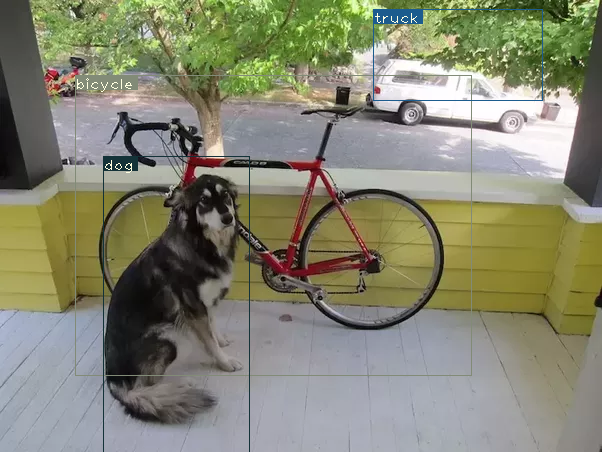
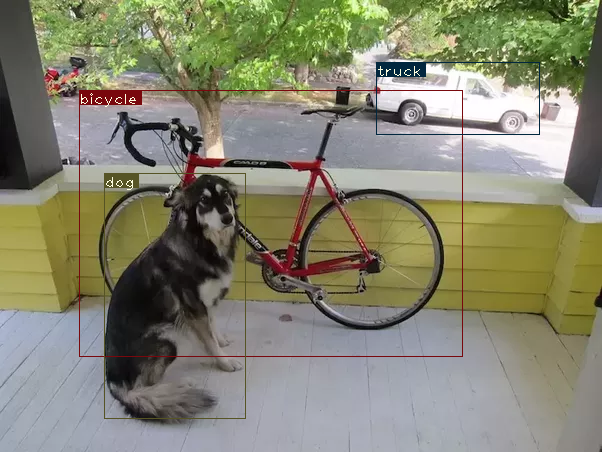
initial network

diff --git a/darknet.py b/darknet.py
@@ -1,4 +1,3 @@
-from __future__ import division
 
 import numpy as np
 
@@ -8,9 +7,14 @@ import torch.nn as nn
 import torch.nn.functional as F 
 import torch.autograd as autograd #build a computational graph
 import torch.optim as optim # optimization package
-
+import time
 from util import *
 
+def cpu(matrix):
+    if matrix.is_cuda:
+        return torch.FloatTensor(matrix.size()).copy_(matrix)
+    else:
+        return matrix
 def get_test_input():
     img = cv2.imread("dog-cycle-car.png")
     img = cv2.resize(img, (608,608))          #Resize to the input dimension
@@ -20,8 +24,6 @@ def get_test_input():
     img_ = autograd.Variable(img_)                     # Convert to Variable
     return img_
 
-
-print('Hello')
 class EmptyLayer(nn.Module):
     def __init__(self):
         super(EmptyLayer, self).__init__()
@@ -32,11 +34,27 @@ class DetectionLayer(nn.Module):
         self.anchors = anchors
 
 class Darknet(nn.Module):
-    def __init__(self, cfgfile):
+    def __init__(self, cfgfile, weightsfile = ''):
+        print('Darknet(self,', cfgfile, ', ', weightsfile, ')')
+
+        start_time = time.time()
         super(Darknet, self).__init__()
+        
         self.blocks = self.extract_dict_list(cfgfile)
-        print('parsed cfg\n', self.blocks[0])
         self.create_modules(self.blocks)
+        
+        cfg_time = time.time()
+        
+        self.init_weights(weightsfile)
+        
+        weights_time = time.time()
+
+        print('time for reading cfg', cfg_time - start_time)
+        print('time for initializing weights', weights_time - start_time)
+    
+    
+    
+    
 
     def forward(self, x, CUDA): #CUDA is boolean
         modules = self.blocks[1:]
@@ -93,6 +111,29 @@ class Darknet(nn.Module):
             outputs[i] = x
         
         return detections
+   
+    def extract_dict_list(self, cfgfile):
+        file = open(cfgfile, 'r')
+        lines = file.read().split('\n')                 # Read in all        
+        lines = [x for x in lines if len(x) > 0]        # non-empty
+        lines = [x for x in lines if x[0] != '#']       # non-comment lines, and
+        lines = [x.rstrip().lstrip() for x in lines]    # remove trailing/heading ws
+        block = {}                                      # Define single block as dict
+        blocks = []                                     # and blocks list
+
+        for line in lines:
+            if line[0] == "[":               
+                if len(block) != 0:          
+                    blocks.append(block)                # Send finished block to list
+                    block = {}                          # Start new block
+                block["type"] = line[1:-1].rstrip()     # set type
+            else:
+                key,value = line.split("=")             # parse attributes
+                block[key.rstrip()] = value.lstrip()    # add attributes
+
+        blocks.append(block)                            # Send last block
+        return blocks
+   
     def create_modules(self, blocks):
 
         self.net_info = blocks[0]
@@ -109,9 +150,6 @@ class Darknet(nn.Module):
         prev_width = int(self.net_info['width'])        # Width of the prev. layer (input)
         prev_height = int(self.net_info['height'])      # Height of the prev. layer (input)
         
-        self.input_width = prev_width
-        self.input_height = prev_height
-        self.input_depth = prev_depth
 
         for index, x in enumerate(blocks[1:]):          # For each block
             module = nn.Sequential()                    # Make a module that may contain
@@ -130,12 +168,10 @@ class Darknet(nn.Module):
                 stride = int(x['stride'])       
                 kernel_size = int(x['size'])            # F = filter size
 
-                if padding:                             # padding = same    
-                    pad = 0                             # W'=(W-F+2p)/S + 1
-                    pad += (stride-1)*prev_width        # W'=W => W-F+2p = SW-S => 2p=(S-1)W-S+F
-                    pad += kernel_size - stride
-                    pad //= 2                           # p = ((S-1)W + F - S)/2
-                    pad = (kernel_size - 1) // 2        # for now, retain old net
+                if padding:                             # padding either same or s.t. width /= 2    
+                    pad = (kernel_size - 1) // 2        # if stride = 2, W' = (W - F + 2P)/S + 1
+                                                        # = (W - F + F -1)/S + 1 = W/2 + 1/2
+                                                        # if s = 1, W' = W - 1 + 1 = W
                 else:
                     pad = 0
 
@@ -218,8 +254,42 @@ class Darknet(nn.Module):
             output_heights.append(cur_height)
             output_widths.append(cur_width)
             output_depths.append(cur_depth)
-        
+      
 
+    def init_weights(self, weightsfile = ''):
+        print('init_weights(self,', weightsfile, ')')
+
+        if len(weightsfile) > 0:
+            self.load_weights(weightsfile)
+            return
+        # If no file given, start with random weights      
+        for i in range(len(self.module_list)):
+            module_type = self.blocks[i + 1]["type"]
+
+            if module_type == "convolutional":
+                model = self.module_list[i]
+                try:
+                    batch_normalize = int(self.blocks[i+1]["batch_normalize"])
+                except:
+                    batch_normalize = 0
+
+                conv = model[0]
+                
+                if (batch_normalize):
+                    bn = model[1]
+                   
+                    # BatchNorm2d params are very good initially
+                    # so no need to initialize
+                else:
+                    conv.bias.data.fill_(0.01)
+                nn.init.xavier_uniform(conv.weight.data)
+
+        # No input file: define own header
+        header = np.array([0, 2, 0, 0, 0], dtype=np.int32)  # major, minor, subversion, num_images_seen, 0
+        self.header = torch.from_numpy(header)
+        self.seen = 0
+        print('HEADER', header)
+   
     def load_weights(self, weightfile):
         print('load_weights(self,', weightfile, ')')
         #Open the weights file
@@ -232,6 +302,7 @@ class Darknet(nn.Module):
         # 4,5. Images seen by the network (during training)
         header = np.fromfile(fp, dtype = np.int32, count = 5)
         self.header = torch.from_numpy(header)
+        print('HEADER', header)
         self.seen = self.header[3]
         
         weights = np.fromfile(fp, dtype = np.float32)
@@ -303,26 +374,100 @@ class Darknet(nn.Module):
 
                 conv_weights = conv_weights.view_as(conv.weight.data)
                 conv.weight.data.copy_(conv_weights)
+        print('ptr', ptr)
+   
+    def save_weights(self, weightsfile = 'out.weights'):
+        print('save_weights(self,', weightsfile, ')')
+        start_time = time.time()
 
-    def extract_dict_list(self, cfgfile):
-        file = open(cfgfile, 'r')
-        lines = file.read().split('\n')                 # Read in all        
-        lines = [x for x in lines if len(x) > 0]        # non-empty
-        lines = [x for x in lines if x[0] != '#']       # non-comment lines, and
-        lines = [x.rstrip().lstrip() for x in lines]    # remove trailing/heading ws
-        block = {}                                      # Define single block as dict
-        blocks = []                                     # and blocks list
 
-        for line in lines:
-            if line[0] == "[":               
-                if len(block) != 0:          
-                    blocks.append(block)                # Send finished block to list
-                    block = {}                          # Start new block
-                block["type"] = line[1:-1].rstrip()     # set type
-            else:
-                key,value = line.split("=")             # parse attributes
-                block[key.rstrip()] = value.lstrip()    # add attributes
+        fp = open(weightsfile, 'wb')                                    # write binary
 
-        blocks.append(block)                            # Send last block
+        self.header[3] = self.seen
+        self.header.numpy().tofile(fp)                                  # Dump header (int32)
+        
+        counter = 0                                                     # Count floats (float32)
+        for i in range(len(self.module_list)):
+            module_type = self.blocks[i + 1]["type"]
 
-        return blocks
+            if module_type == "convolutional":                          # Only conv have weights
+                model = self.module_list[i]                             # load layer
+                try:
+                    batch_normalize = \
+                        int(self.blocks[i+1]["batch_normalize"])        # From cfg: batch normalize?
+                except:
+                    batch_normalize = 0
+
+                conv = model[0]                                         # conv part of layer
+                
+                if (batch_normalize):
+                    bn = model[1]                                       # bn part of layer
+                    num_bn_biases = bn.bias.numel()
+                    counter += num_bn_biases * 4                        # bn has biases, weights, means, stds
+                else:
+                    num_biases = conv.bias.numel()                      # biases of conv layer
+                    counter += num_biases
+                num_weights = conv.weight.numel()                       # weights of conv layer
+                counter += num_weights
+          
+        print('NUMBER OF FLOATS', counter)    
+        
+        weights = np.ndarray(shape=(1,counter), dtype=np.float32)       # Output array initialization
+
+        ptr = 0
+        for i in range(len(self.module_list)):
+            module_type = self.blocks[i + 1]["type"]
+        
+            if module_type == "convolutional":
+                model = self.module_list[i]
+                try:
+                    batch_normalize = int(self.blocks[i+1]["batch_normalize"])
+                except:
+                    batch_normalize = 0
+
+                conv = model[0]
+                
+                if (batch_normalize):
+                    bn = model[1]
+
+                    #Get the number of weights of Batch Norm Layer
+                    num_bn_biases = bn.bias.numel()
+
+                    #Load the weights
+                    bn_biases = cpu(bn.bias.data).numpy()
+                    weights[0,ptr:ptr + num_bn_biases] = bn_biases.view(dtype=np.float32).reshape(-1, num_bn_biases)
+                    ptr += num_bn_biases
+
+                    bn_weights = cpu(bn.weight.data).numpy()
+                    weights[0,ptr: ptr + num_bn_biases] = bn_weights.view(dtype=np.float32).reshape(-1, num_bn_biases)
+                    ptr  += num_bn_biases
+
+                    bn_running_mean = cpu(bn.running_mean).numpy()
+                    weights[0, ptr: ptr + num_bn_biases] = bn_running_mean.view(dtype=np.float32).reshape(-1, num_bn_biases)
+                    ptr  += num_bn_biases
+
+                    bn_running_var = cpu(bn.running_var).numpy()
+                    weights[0, ptr: ptr + num_bn_biases] = bn_running_var.view(dtype=np.float32).reshape(-1, num_bn_biases)
+                    ptr  += num_bn_biases
+                else:
+                    #Number of biases
+                    num_biases = conv.bias.numel()
+
+                    #Load the weights
+                    conv_biases = cpu(conv.bias.data).numpy()
+                    weights[0, ptr: ptr + num_biases] = conv_biases.view(dtype=np.float32).reshape(-1, num_biases)
+                    ptr = ptr + num_biases
+
+                #Let us load the weights for the Convolutional layers
+                num_weights = conv.weight.numel()
+
+                #Do the same as above for weights
+                conv_weights = cpu(conv.weight.data).numpy()
+                weights[0, ptr: ptr + num_weights] = conv_weights.view(dtype=np.float32).reshape(-1, num_weights)
+                ptr = ptr + num_weights
+
+        print('PTR', ptr)
+  
+        weights.tofile(fp)
+        print('time for saving weights', time.time() - start_time)
+

diff --git a/yoloapi.py b/yoloapi.py
@@ -1,0 +1,61 @@
+print('This is YOLO API')
+from darknet import *
+import os.path as osp
+import os 
+
+class YOLO(object):
+    def __init__(self, cfgfile, weightfile = ''):
+        self.net = Darknet(cfgfile, weightfile)
+        
+    def compare_weights(self, file1, file2):
+        import filecmp
+        are_same = filecmp.cmp(file1, file2, shallow=False)
+        if are_same:
+            print('Files are equal')
+        else:
+            print('Files differ')
+
+    # We need a method for loading images
+    # Consider a dataset of 10k images
+    # we load e.g. 64 images at once (batch),
+    # train on it, load next batch, etc.
+    # So, given list of image names, we load the batch and do preprocessing
+    def load_batch(images):
+
+        start_time = time.time()
+        try:
+            imlist = [osp.join(osp.realpath('.'), images, img) \
+                        for img in os.listdir(images)]
+        except NotADirectoryError:
+            imlist = []
+            imlist.append(osp.join(osp.realpath('.'), images))
+        except FileNotFoundError:
+            print ("No file or directory with the name {}".format(images))
+            exit()
+
+        loaded_ims = [cv2.imread(x) for x in imlist]
+
+        load_batch_time = time.time()
+
+        return loaded_ims
+        
+
+# model = YOLO('cfg/yolov3.cfg', 'yolov3.weights')
+# CUDA = torch.cuda.is_available()
+# if CUDA:
+#     model.net.cuda()
+# model.net.save_weights('yolov3_train.weights')
+# model.compare_weights('yolov3.weights', 'yolov3_train.weights')
+
+
+import torchvision.datasets as dset
+import torchvision.transforms as transforms
+cap = dset.CocoCaptions(root = 'det',
+                        annFile = 'coco/annotations/instances_train2014.json',
+                        transform=transforms.ToTensor())
+
+print('Number of samples: ', len(cap))
+img, target = cap[3] # load 4th sample
+
+print("Image Size: ", img.size())
+print(transformsget)

diff --git a/detect.py b/detect.py
@@ -116,10 +116,11 @@ def prep_image(img, inp_dim):
     Returns a Variable 
     """
 
-    img = cv2.resize(img, (inp_dim, inp_dim))
+    img = letterbox_image(img, (inp_dim, inp_dim))
     img = img[:,:,::-1].transpose((2,0,1)).copy()
     img = torch.from_numpy(img).float().div(255.0).unsqueeze(0)
     return img
+
 
 #PyTorch Variables for images
 im_batches = list(map(prep_image, loaded_ims, [inp_dim for x in range(len(imlist))]))
